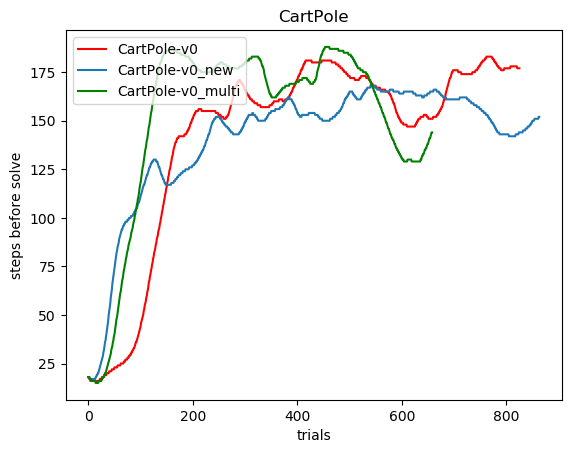
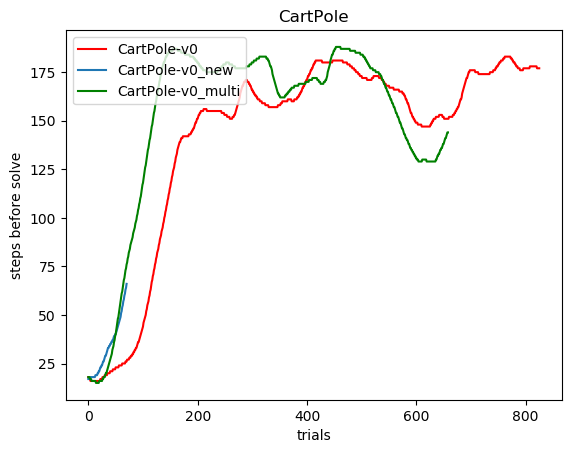
changed code so there are no return nan

diff --git a/newCartpole.py b/newCartpole.py
@@ -86,6 +86,8 @@ class DQNAgent:
             next_state_done[i] = self.get_next_state_done(timeStep[i])
             reward[i] = self.discount(timeStep[i], discounted_rewards)
 
+        print("next state train after {}".format(next_state))
+
         next_Q_values = self.target_model.predict([next_state, action_mask])
 
         for i in range(batch_size):
@@ -112,7 +114,6 @@ class DQNAgent:
 
     def discount(self, timeStep, rewards):
         #Compute the gamma-discounted rewards over an episode
-        timeStep = timeStep - 1
         discounted_rewards = 0
 
         for elem in self.memory:
@@ -121,22 +122,28 @@ class DQNAgent:
             if elem[3] == timeStep + 1:
                 discounted_rewards = discounted_rewards + self.gamma*elem[2]
                 if elem[5] is True:
-                    return
+                    return discounted_rewards
             if elem[3] == timeStep + 2:
                 discounted_rewards = discounted_rewards + elem[2]*self.gamma**2
 
         return discounted_rewards
 
     def get_next_state(self, timeStep):
-        timeStep = timeStep - 1
         for elem in self.memory:
             if elem[3] == timeStep + 2:
                 return elem[4]
+            elif elem[3] == timeStep + 1:
+                return elem[4]
+            elif elem[3] == timeStep:
+                return elem[4]
 
     def get_next_state_done(self, timeStep):
-        timeStep = timeStep - 1
         for elem in self.memory:
             if elem[3] == timeStep + 2:
+                return elem[5]
+            elif elem[3] == timeStep + 1:
+                return elem[5]
+            elif elem[3] == timeStep:
                 return elem[5]
 
 
@@ -145,7 +152,7 @@ if __name__ == "__main__":
     env = gym.make(env_name)
     threshold = 195
 
-    score_logger = StatistikLogger('CartPole-v0_new', threshold)
+    score_logger = StatistikLogger('CartPole-v0_new1', threshold)
 
     state_size = env.observation_space.shape[0]
     action_size = env.action_space.n
@@ -157,7 +164,7 @@ if __name__ == "__main__":
 
     discounted_rewards = []
     next_states = []
-    timeStep = 0
+    timeStep = -1
 
     for episode in range(1000):
         state = env.reset()

diff --git a/StatistikLogger.py b/StatistikLogger.py
@@ -33,7 +33,7 @@ class StatistikLogger:
         self.scores.append(score)
         mean_score = round(mean(self.scores))
         self.scoresWindow.append(mean_score)
-        print("Run: {}, Step: {}, Score: (min: {}, avg: {}, max: {})".format(self.run, self.score, min(self.scores), mean_score, max(self.scores)))
+        #print("Run: {}, Step: {}, Score: (min: {}, avg: {}, max: {})".format(self.run, self.score, min(self.scores), mean_score, max(self.scores)))
 
         if len(self.scoresWindow) == 20:
             solve_score = int(mean(self.scoresWindow))
